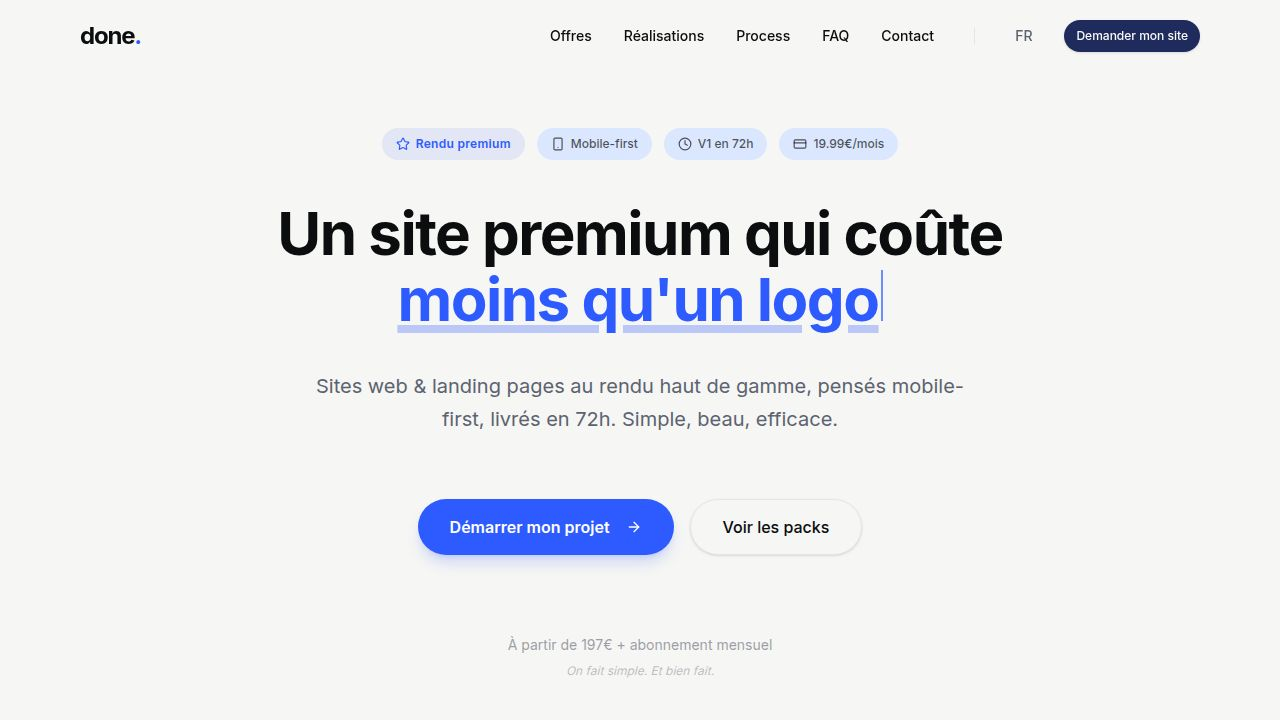
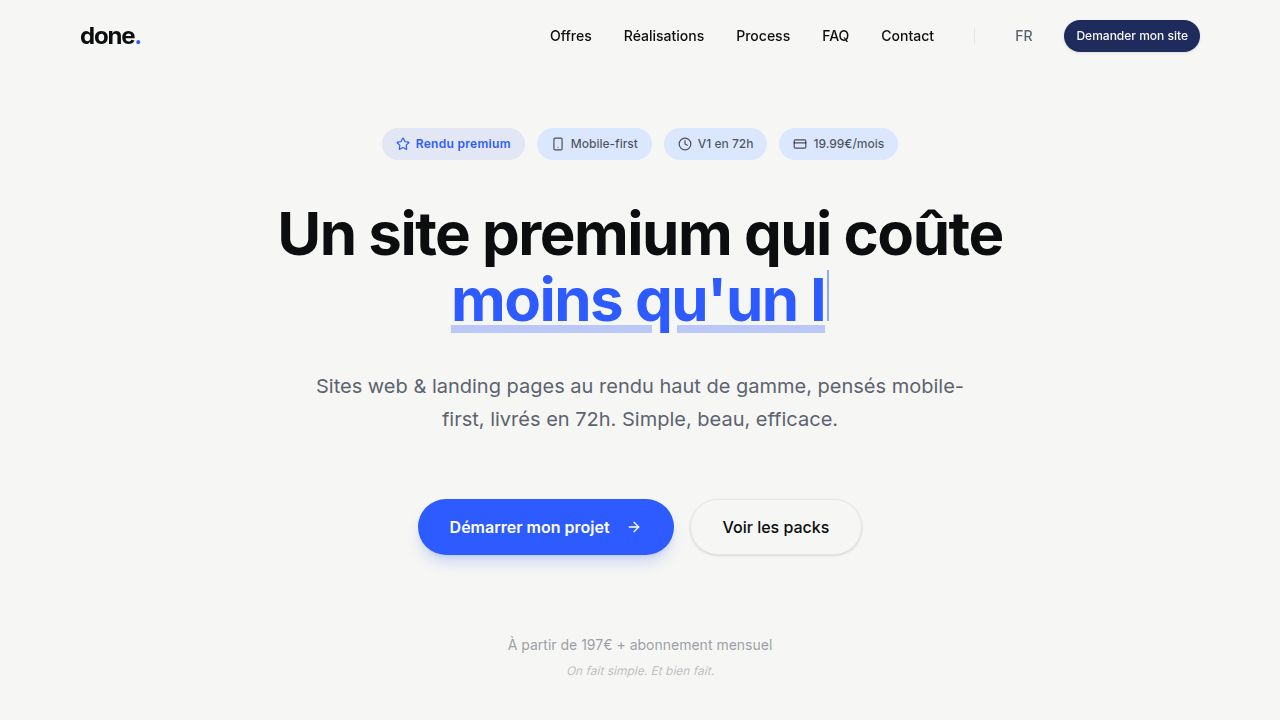
Update booking link for appointment scheduling
Update the hardcoded Google Calendar booking URL in LeadWizard.tsx and the environment variable fallback in email.ts.

Replit-Commit-Author: Agent
Replit-Commit-Session-Id: 8f8d660a-18c0-4bc6-b347-583772bc785e
Replit-Commit-Checkpoint-Type: full_checkpoint
Replit-Commit-Event-Id: 8341eccf-6ab6-46fa-841a-ef15aaa38e0e
Replit-Commit-Screenshot-Url: https://storage.googleapis.com/screenshot-production-us-central1/45cda848-3f85-4523-bb4f-4df09fe2f5ec/8f8d660a-18c0-4bc6-b347-583772bc785e/6qQyeJp
Replit-Helium-Checkpoint-Created: true

Changed region(s): [[0.3125, 0.3667, 0.6875, 0.4889]]

diff --git a/client/src/components/LeadWizard.tsx b/client/src/components/LeadWizard.tsx
@@ -51,7 +51,7 @@ const objectifOptions = [
   { id: "achat", label: "Acheter directement", description: "Paiement en ligne", icon: CreditCard },
 ];
 
-const MEET_BOOKING_URL = "https://calendar.app.google/madebydone30min";
+const MEET_BOOKING_URL = "https://calendar.app.google/zFbiLZ22gFyL1cGf8";
 
 const packs = [
   {

diff --git a/server/email.ts b/server/email.ts
@@ -4,7 +4,7 @@ const resend = new Resend(process.env.RESEND_API_KEY);
 
 const STUDIO_EMAIL = process.env.STUDIO_EMAIL || "[email redacted]";
 const FROM_EMAIL = "done. <[email redacted]>";
-const MEET_BOOKING_URL = process.env.MEET_BOOKING_URL || "https://cal.com/madebydone/30min";
+const MEET_BOOKING_URL = process.env.MEET_BOOKING_URL || "https://calendar.app.google/zFbiLZ22gFyL1cGf8";
 
 type LeadData = {
   name: string;